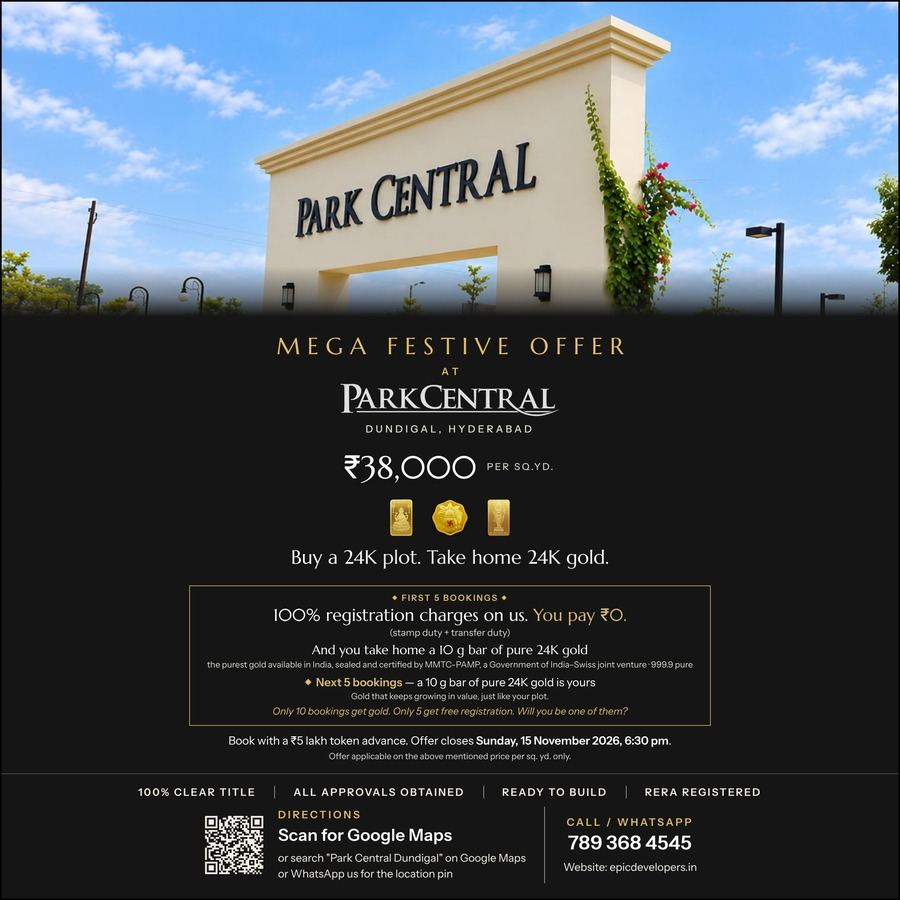
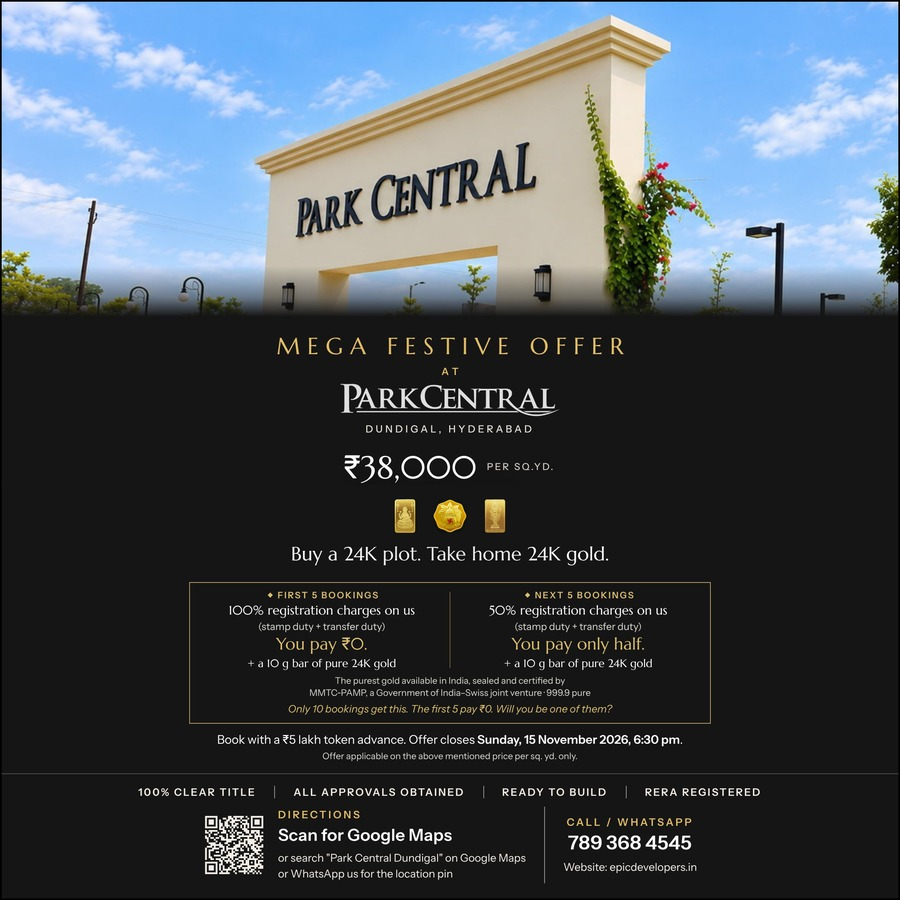
Offer creatives + link card: first 5 (100%, pay ₹0) and next 5 (50%) side by side, both with 10 g gold
Claude-Session: https://claude.ai/code/session_014hxhTrdaTjMqW6uKmpSwqj

Changed region(s): [[0.2178, 0.56, 0.7778, 0.8711]]

diff --git a/offer/index.html b/offer/index.html
@@ -23,7 +23,7 @@
 <meta name="description" content="Mega Festive Offer at Park Central, Dundigal — first 5 bookings: 100% registration charges on us (stamp duty + transfer duty). You pay ₹0, plus a 10 g 24K gold bar. ₹38,000 per sq.yd. Offer closes Sunday, 15 November 2026, 6:30 pm.">
 <meta property="og:title" content="Mega Festive Offer at Park Central, Dundigal">
 <meta property="og:description" content="First 5 bookings: 100% registration charges on us (stamp duty + transfer duty). You pay ₹0, plus a 10 g 24K gold bar. Next 5: 50% registration on us + 10 g gold. ₹38,000 per sq.yd. Closes 15 Nov 2026, 6:30 pm.">
-<meta property="og:image" content="https://epicdevelopers.in/offer/link-card.jpg?v=5">
+<meta property="og:image" content="https://epicdevelopers.in/offer/link-card.jpg?v=6">
 <meta property="og:image:width" content="1200">
 <meta property="og:image:height" content="630">
 <meta property="og:url" content="https://epicdevelopers.in/offer/">
